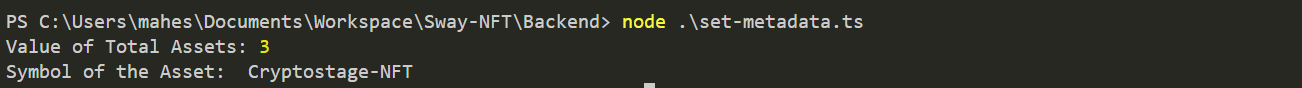
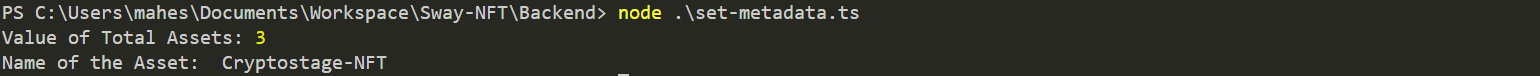
readme name output fixes

diff --git a/Backend/set-metadata.ts b/Backend/set-metadata.ts
@@ -11,7 +11,7 @@ async function main() {
   // Initialize wallet with a private key
   // const privateKey = ""; // Replace with your Asset holder private key
 
-  const privateKey =  ''  // Replace with your owner private key
[1 lines of base64/hex data omitted]
   const wallet = Wallet.fromPrivateKey(privateKey, provider);
   const contract = new Contract(contractId, abi, wallet);
   
@@ -32,26 +32,26 @@ async function main() {
   let nftsymbol = 'CRYP-NO'
   
   // Call set_metadata function with the correct parameters
-  const setmetadata = await contract.functions.set_metadata(assetId,metadataKey,metadataEnum).txParams({ gasPrice: 1 }).call();
-  let setmetadatatxn = await setmetadata.waitForResult();
-  console.log("Metadata:", setmetadatatxn);
+  // const setmetadata = await contract.functions.set_metadata(assetId,metadataKey,metadataEnum).txParams({ gasPrice: 1 }).call();
+  // let setmetadatatxn = await setmetadata.waitForResult();
+  // console.log("Metadata:", setmetadatatxn);
 
-  const getmetadata = await contract.functions.metadata(assetId, metadataKey).get();
-  console.log("Metadata:",getmetadata.value);
+  // const getmetadata = await contract.functions.metadata(assetId, metadataKey).get();
+  // console.log("Metadata:",getmetadata.value);
 
-  const setname = await contract.functions.set_name(assetId,Nftname).txParams({ gasPrice: 1 }).call();
-  let setnamedata = await setname.waitForResult();
-  console.log("setnamedata:",setnamedata) 
+  // const setname = await contract.functions.set_name(assetId,Nftname).txParams({ gasPrice: 1 }).call();
+  // let setnamedata = await setname.waitForResult();
+  // console.log("setnamedata:",setnamedata) 
 
-  const setsymbol = await contract.functions.set_symbol(assetId,nftsymbol).txParams({ gasPrice: 1 }).call();
-  let setsymboldata = await setsymbol.waitForResult();
-  console.log("setsymboldata:",setsymboldata);
+  // const setsymbol = await contract.functions.set_symbol(assetId,nftsymbol).txParams({ gasPrice: 1 }).call();
+  // let setsymboldata = await setsymbol.waitForResult();
+  // console.log("setsymboldata:",setsymboldata);
 
-  const getsymbol = await contract.functions.symbol(assetId).get()
-  console.log("Symbol of the Asset: ",getsymbol.value)
+  // const getsymbol = await contract.functions.symbol(assetId).get()
+  // console.log("Symbol of the Asset: ",getsymbol.value)
 
   const getname = await contract.functions.name(assetId).get()
-  console.log("Symbol of the Asset: ",getname.value)
+  console.log("Name of the Asset: ",getname.value)
 }
 
 main().catch(console.error);
